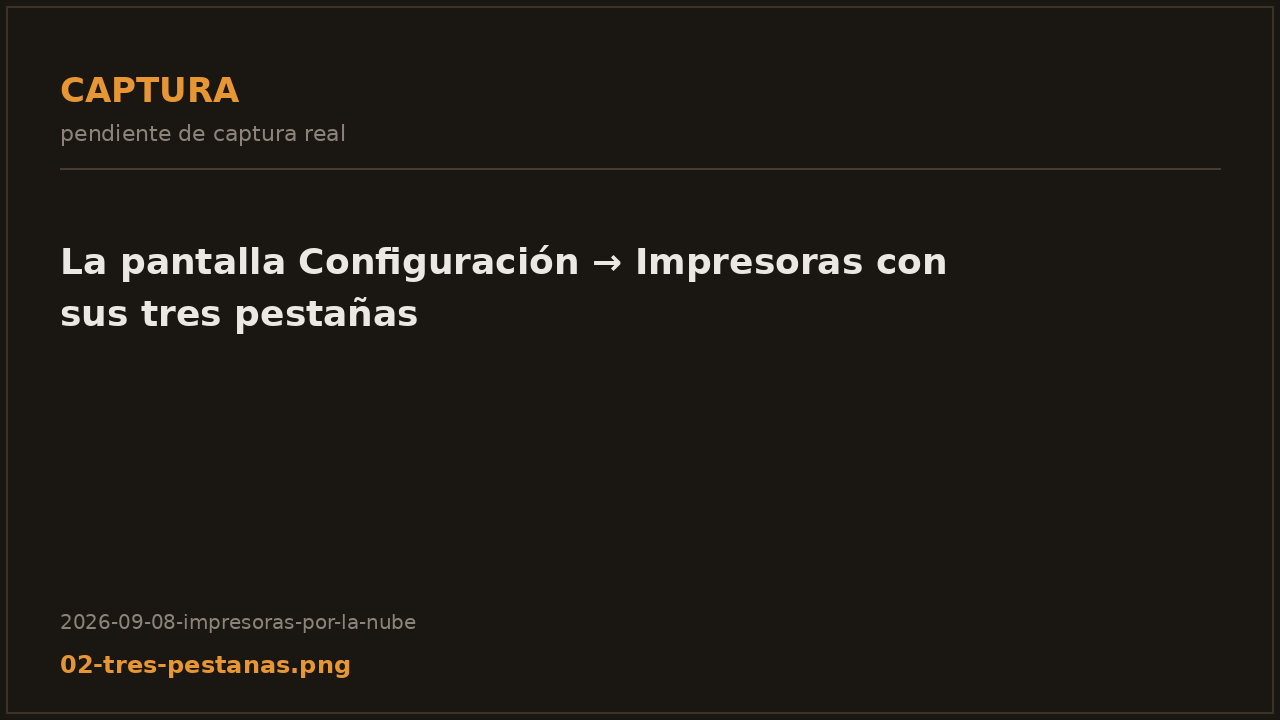
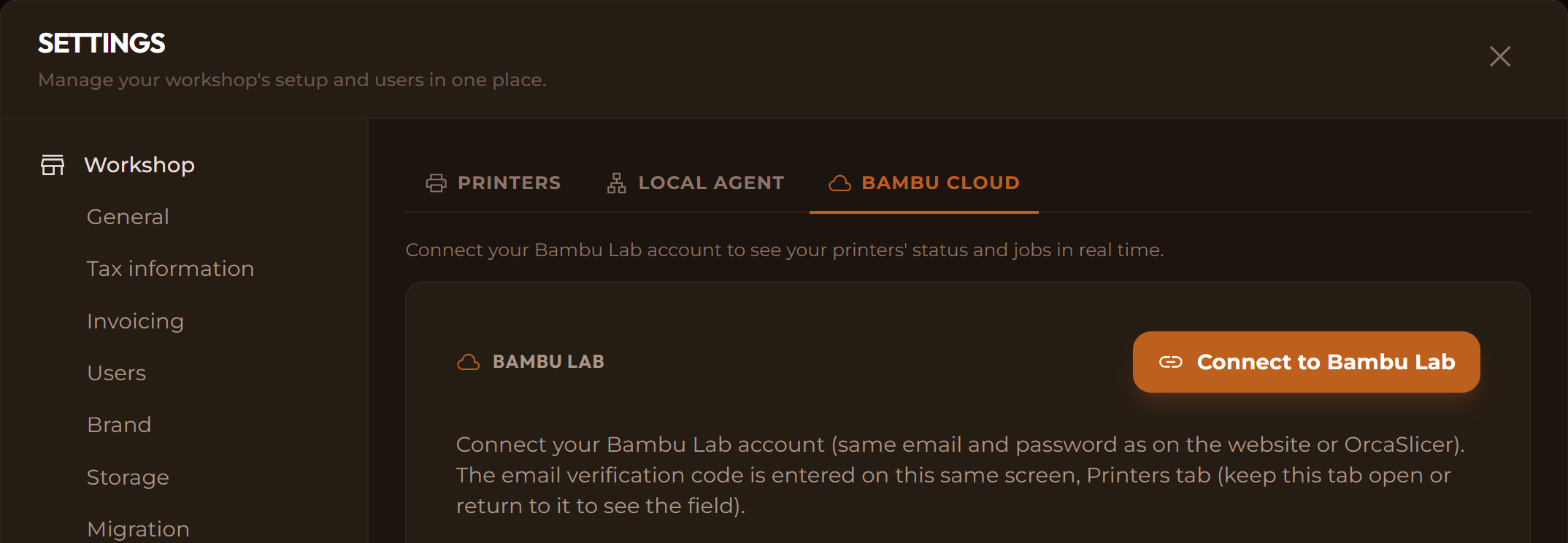
Bambu por la nube: capturas reales de los pasos 1, 2 y 3
Las tres pestañas, el formulario con el email de ejemplo y la pantalla del
código, en inglés, sacadas en el taller Demo de dev (sin cuenta de Bambu
vinculada). El texto alternativo de la 03 dice ahora que la contraseña está
por poner, que es lo que se ve.

diff --git a/posts/2026-09-08-impresoras-por-la-nube/fr.md b/posts/2026-09-08-impresoras-por-la-nube/fr.md
@@ -55,7 +55,7 @@ Ouvrez **Bambu Cloud**.
 
 Ceux de votre compte Bambu Lab — cet e-mail-là, pas un autre des vôtres — puis cliquez sur **Se connecter à BambuLab**.
 
-![Le formulaire Bambu Cloud avec l'e-mail et le mot de passe remplis](/blog/media/2026-09-08-impresoras-por-la-nube/03-email-password.png)
+![Le formulaire Bambu Cloud, avec l'e-mail du compte saisi et le mot de passe encore à saisir](/blog/media/2026-09-08-impresoras-por-la-nube/03-email-password.png)
 
 :::info 💡 Votre mot de passe n'est pas enregistré
 Il reste **uniquement dans votre navigateur**, et seulement jusqu'à la fin de la vérification.

diff --git a/posts/2026-09-08-impresoras-por-la-nube/de.md b/posts/2026-09-08-impresoras-por-la-nube/de.md
@@ -65,7 +65,7 @@ Geh zu **Einstellungen → Drucker**. Dort siehst du drei Reiter:
 Die von deinem Bambu-Lab-Konto — genau diese E-Mail, keine andere von dir — und
 klick auf **Mit Bambu Lab verbinden**.
 
-![Das Bambu-Cloud-Formular mit ausgefüllter E-Mail und Passwort](/blog/media/2026-09-08-impresoras-por-la-nube/03-email-password.png)
+![Das Bambu-Cloud-Formular, mit eingetragener E-Mail-Adresse; das Passwort fehlt noch](/blog/media/2026-09-08-impresoras-por-la-nube/03-email-password.png)
 
 :::info 💡 Dein Passwort wird nicht gespeichert
 Es bleibt **nur in deinem Browser**, und auch nur, bis du die Bestätigung

diff --git a/posts/2026-09-08-impresoras-por-la-nube/it.md b/posts/2026-09-08-impresoras-por-la-nube/it.md
@@ -65,7 +65,7 @@ Apri **Bambu Cloud**.
 Quelle del tuo account Bambu Lab —quell'email, non un'altra tua— e premi
 **Connetti con BambuLab**.
 
-![Il modulo di Bambu Cloud con l'email e la password compilate](/blog/media/2026-09-08-impresoras-por-la-nube/03-email-password.png)
+![Il modulo di Bambu Cloud, con l'email dell'account inserita e la password ancora da scrivere](/blog/media/2026-09-08-impresoras-por-la-nube/03-email-password.png)
 
 :::info 💡 La tua password non viene salvata
 Resta **solo nel tuo browser**, e solo finché non finisci di verificare.

diff --git a/posts/2026-09-08-impresoras-por-la-nube/pt.md b/posts/2026-09-08-impresoras-por-la-nube/pt.md
@@ -65,7 +65,7 @@ Abre **Bambu Cloud**.
 Os da tua conta Bambu Lab — esse email, não outro teu — e carrega em **Ligar à
 BambuLab**.
 
-![O formulário da Bambu Cloud com o email e a palavra-passe preenchidos](/blog/media/2026-09-08-impresoras-por-la-nube/03-email-password.png)
+![O formulário da Bambu Cloud, com o email da conta escrito e a palavra-passe ainda por pôr](/blog/media/2026-09-08-impresoras-por-la-nube/03-email-password.png)
 
 :::info 💡 A tua palavra-passe não fica guardada
 Fica **só no teu navegador**, e só até acabares de verificar.

diff --git a/posts/2026-09-08-impresoras-por-la-nube/en.md b/posts/2026-09-08-impresoras-por-la-nube/en.md
@@ -65,7 +65,7 @@ Open **Bambu Cloud**.
 The ones for your Bambu Lab account — that email, not another one of yours — and
 click **Connect to Bambu Lab**.
 
-![The Bambu Cloud form with the email and password filled in](/blog/media/2026-09-08-impresoras-por-la-nube/03-email-password.png)
+![The Bambu Cloud form, with the account email typed in and the password still to go](/blog/media/2026-09-08-impresoras-por-la-nube/03-email-password.png)
 
 :::info 💡 Your password isn't stored
 It stays **only in your browser**, and only until you've finished verifying.

diff --git a/posts/2026-09-08-impresoras-por-la-nube/es.md b/posts/2026-09-08-impresoras-por-la-nube/es.md
@@ -64,7 +64,7 @@ Abre **Bambu Cloud**.
 Los de tu cuenta de Bambu Lab —ese email, no otro tuyo— y pulsa **Conectar con
 Bambu Lab**.
 
-![El formulario de Bambu Cloud con el email y la contraseña rellenos](/blog/media/2026-09-08-impresoras-por-la-nube/03-email-password.png)
+![El formulario de Bambu Cloud, con el email de la cuenta escrito y la contraseña por poner](/blog/media/2026-09-08-impresoras-por-la-nube/03-email-password.png)
 
 :::info 💡 Tu contraseña no se guarda
 Se queda **solo en tu navegador**, y solo hasta que termines de verificar.
